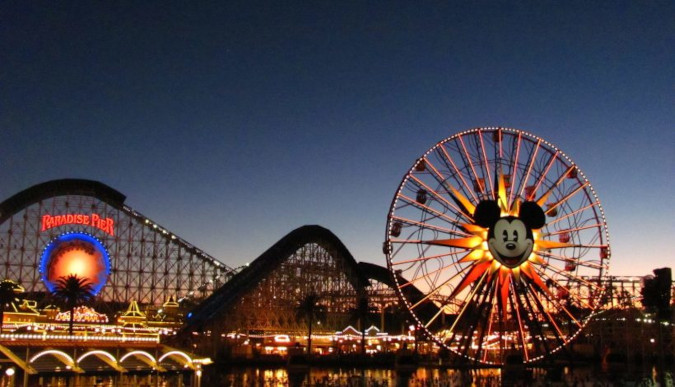
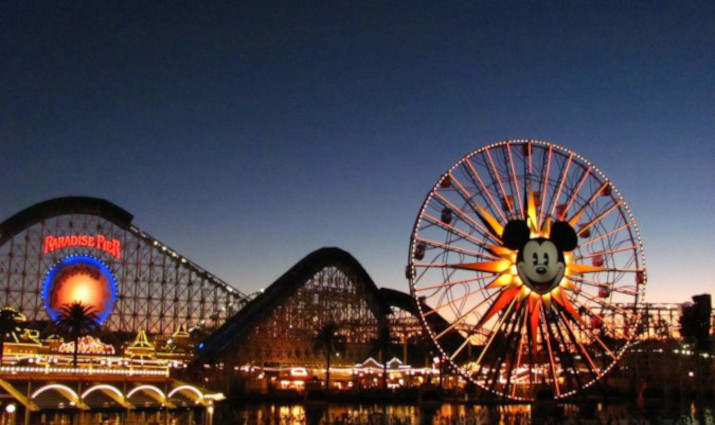
conteudo responsivo

diff --git a/teste site1/index.html b/teste site1/index.html
@@ -20,19 +20,32 @@
             <p><a href="https://disney.fandom.com/wiki/Mickey_Mouse" target="_blank">Mickey Mouse</a> é o rosto e o ícone mais reconhecido da Disney, sendo a personificação da magia, diversão e criatividade que a empresa representa. Criado por <a href="https://athonedu.com.br/blog/quem-foi-walt-disney/" target="_blank">Walt Disney</a> e <a href="https://www.oexplorador.com.br/ub-iwerks-lendario-desenhista-americano-tornou-se-amigo-de-walt-disney-na-adolescencia/" target="_blank">Ub Iwerks</a> em 1928, Mickey foi o primeiro personagem de animação a alcançar fama mundial, o que ajudou a estabelecer a Disney como um dos maiores nomes do entretenimento.</p>
             <p>Sua importância vai além dos filmes e programas; Mickey se tornou um símbolo da marca Disney, conectando todas as suas produções, desde filmes, parques temáticos até produtos de consumo. Ele representa valores de otimismo, alegria e amizade, e continua sendo uma figura central em experiências interativas, como os parques Disney, onde é a principal atração para visitantes de todas as idades.</p>
             
-            <abbr title="turma do mickey"><img src="imagens/mickey e sua turma.jpg" alt=""> </abbr> 
+            <picture>
+                <abbr title="turma do mickey">
+                    <source media="(max-width: 400px)" srcset="imagens/mickey e sua turma - Copia.jpg">
+                    <img src="imagens/mickey e sua turma.jpg" alt="">
+                </abbr>
+            </picture>
 
             <h1>Disney em Califórnia</h1>
             <p>A Disney na Califórnia é uma parte fundamental da história da empresa, sendo o lar do primeiro parque temático da Disney: Disneyland Resort, inaugurado em 17 de julho de 1955. Criado por Walt Disney, a <a href="https://disneyland.disney.go.com/" target="_blank">Disneyland</a> foi o primeiro parque a dar vida à ideia de um "mundo mágico" onde famílias poderiam se divertir e viver experiências imersivas com personagens e temas dos filmes da Disney</p>
 
-            <abbr title="disney em california">
-                <img src="imagens/disney na california.jpg" alt=""> 
-            </abbr>
+            <picture>
+                <abbr title="disney em california">
+                    <source media="(max-width: 400px)" srcset="imagens/disney na california - Copia.jpg">
+                    <img src="imagens/disney na california.jpg" alt="">
+                </abbr>
+            </picture>
 
             <h1>Disney em Paris</h1>
             <p>Disneyland Paris é o maior complexo de entretenimento da Disney na Europa, localizado em <a href="https://pt.wikipedia.org/wiki/Marne-la-Vall%C3%A9e" target="_blank">Marne-la-Vallée</a>, a cerca de 32 km de Paris. Inaugurado em 1992, o parque rapidamente se tornou um dos destinos turísticos mais populares da Europa, recebendo milhões de visitantes a cada ano.</p>
 
-            <abbr title="disney em paris"><img src="imagens/disney paris.jpg" alt=""></abbr>
+            <picture>
+                <abbr title="disney em paris">
+                    <source media="(max-width: 400px)" srcset="imagens/disney paris - Copia.jpg">
+                    <img src="imagens/disney paris.jpg" alt="">
+                </abbr>
+            </picture>
 
             <h1>Princípais Filmes da Disney</h1>
 
@@ -178,7 +191,7 @@
             <h1>"Enrolados" vídeo oficial</h1>
 
             <div class="video">
-                <iframe width="675" height="387" src="https://www.youtube.com/embed/OmsEnoZck6g?si=XHE4fz8ig5M8XHdj" title="YouTube video player" frameborder="0" allow="accelerometer; autoplay; clipboard-write; encrypted-media; gyroscope; picture-in-picture; web-share" referrerpolicy="strict-origin-when-cross-origin" allowfullscreen></iframe>
+                <iframe width="715" height="425" src="https://www.youtube.com/embed/OmsEnoZck6g?si=XHE4fz8ig5M8XHdj" title="YouTube video player" frameborder="0" allow="accelerometer; autoplay; clipboard-write; encrypted-media; gyroscope; picture-in-picture; web-share" referrerpolicy="strict-origin-when-cross-origin" allowfullscreen></iframe>
             </div>
 
             <p id="desc">Clipe da música: "Vejo Enfim a Luz Brilhar" com Sylvia Salustti e Raphael Rossato. Enrolados está disponível no Disney+.</p>

diff --git a/teste site1/style.css b/teste site1/style.css
@@ -13,6 +13,11 @@
     --fonte-padrão: arial,helvetica;
 }
 
+* {
+    margin: 0px;
+    padding: 0px;
+}
+
 body {
     background-color: var(--cor01);
     color: white;
@@ -31,7 +36,6 @@ header {
 header > img {
     padding: 10px;
     padding-left: 12%;
-
 }
 
 header > h1 {
@@ -57,12 +61,12 @@ header > p {
 /* CONTEÚDO */
 
 main {
-    border-left: 5px solid var(--cor05);
-    border-right: 5px solid var(--cor05);
-    border: 3px solid var(--cor05);
     margin: -5px;
     min-width: 250px;
     max-width: 1350px;
+
+    min-width: 400px;
+    max-width: 800px;
     margin: auto;
 }
 
@@ -72,6 +76,7 @@ main > article > h1 {
     font-size: 1.6em;
     margin-bottom: -15px;
     margin-top: 50px;
+    padding-bottom: 20px;
 }
 
 main > article > p {
@@ -83,6 +88,7 @@ main > article > p {
     font-size: 24px;
     text-indent: 10px;
     line-height: 1.5em;
+    padding-bottom: 20px;
 }
 
 a {
@@ -95,10 +101,10 @@ a:hover {
     color: var(--cor03);
 }
 
-main > article > abbr > img {
+main > article > picture > abbr > img,source {
     display: block;
     margin: auto;
-    
+    width: 100%;
 }
 
 table {
@@ -118,7 +124,7 @@ table {
 }
 
 caption {
-    padding-top: 9px;
+    margin-top: -25px;
     padding-bottom: 4px;
     font-size: 19px;
 }
@@ -157,6 +163,7 @@ div.video {
 #desc {
     font-family: Georgia, 'Times New Roman', Times, serif;
     font-size: 19px;
+    border-bottom: 3px solid var(--cor05);
 }
 
 /* FOOTER */
